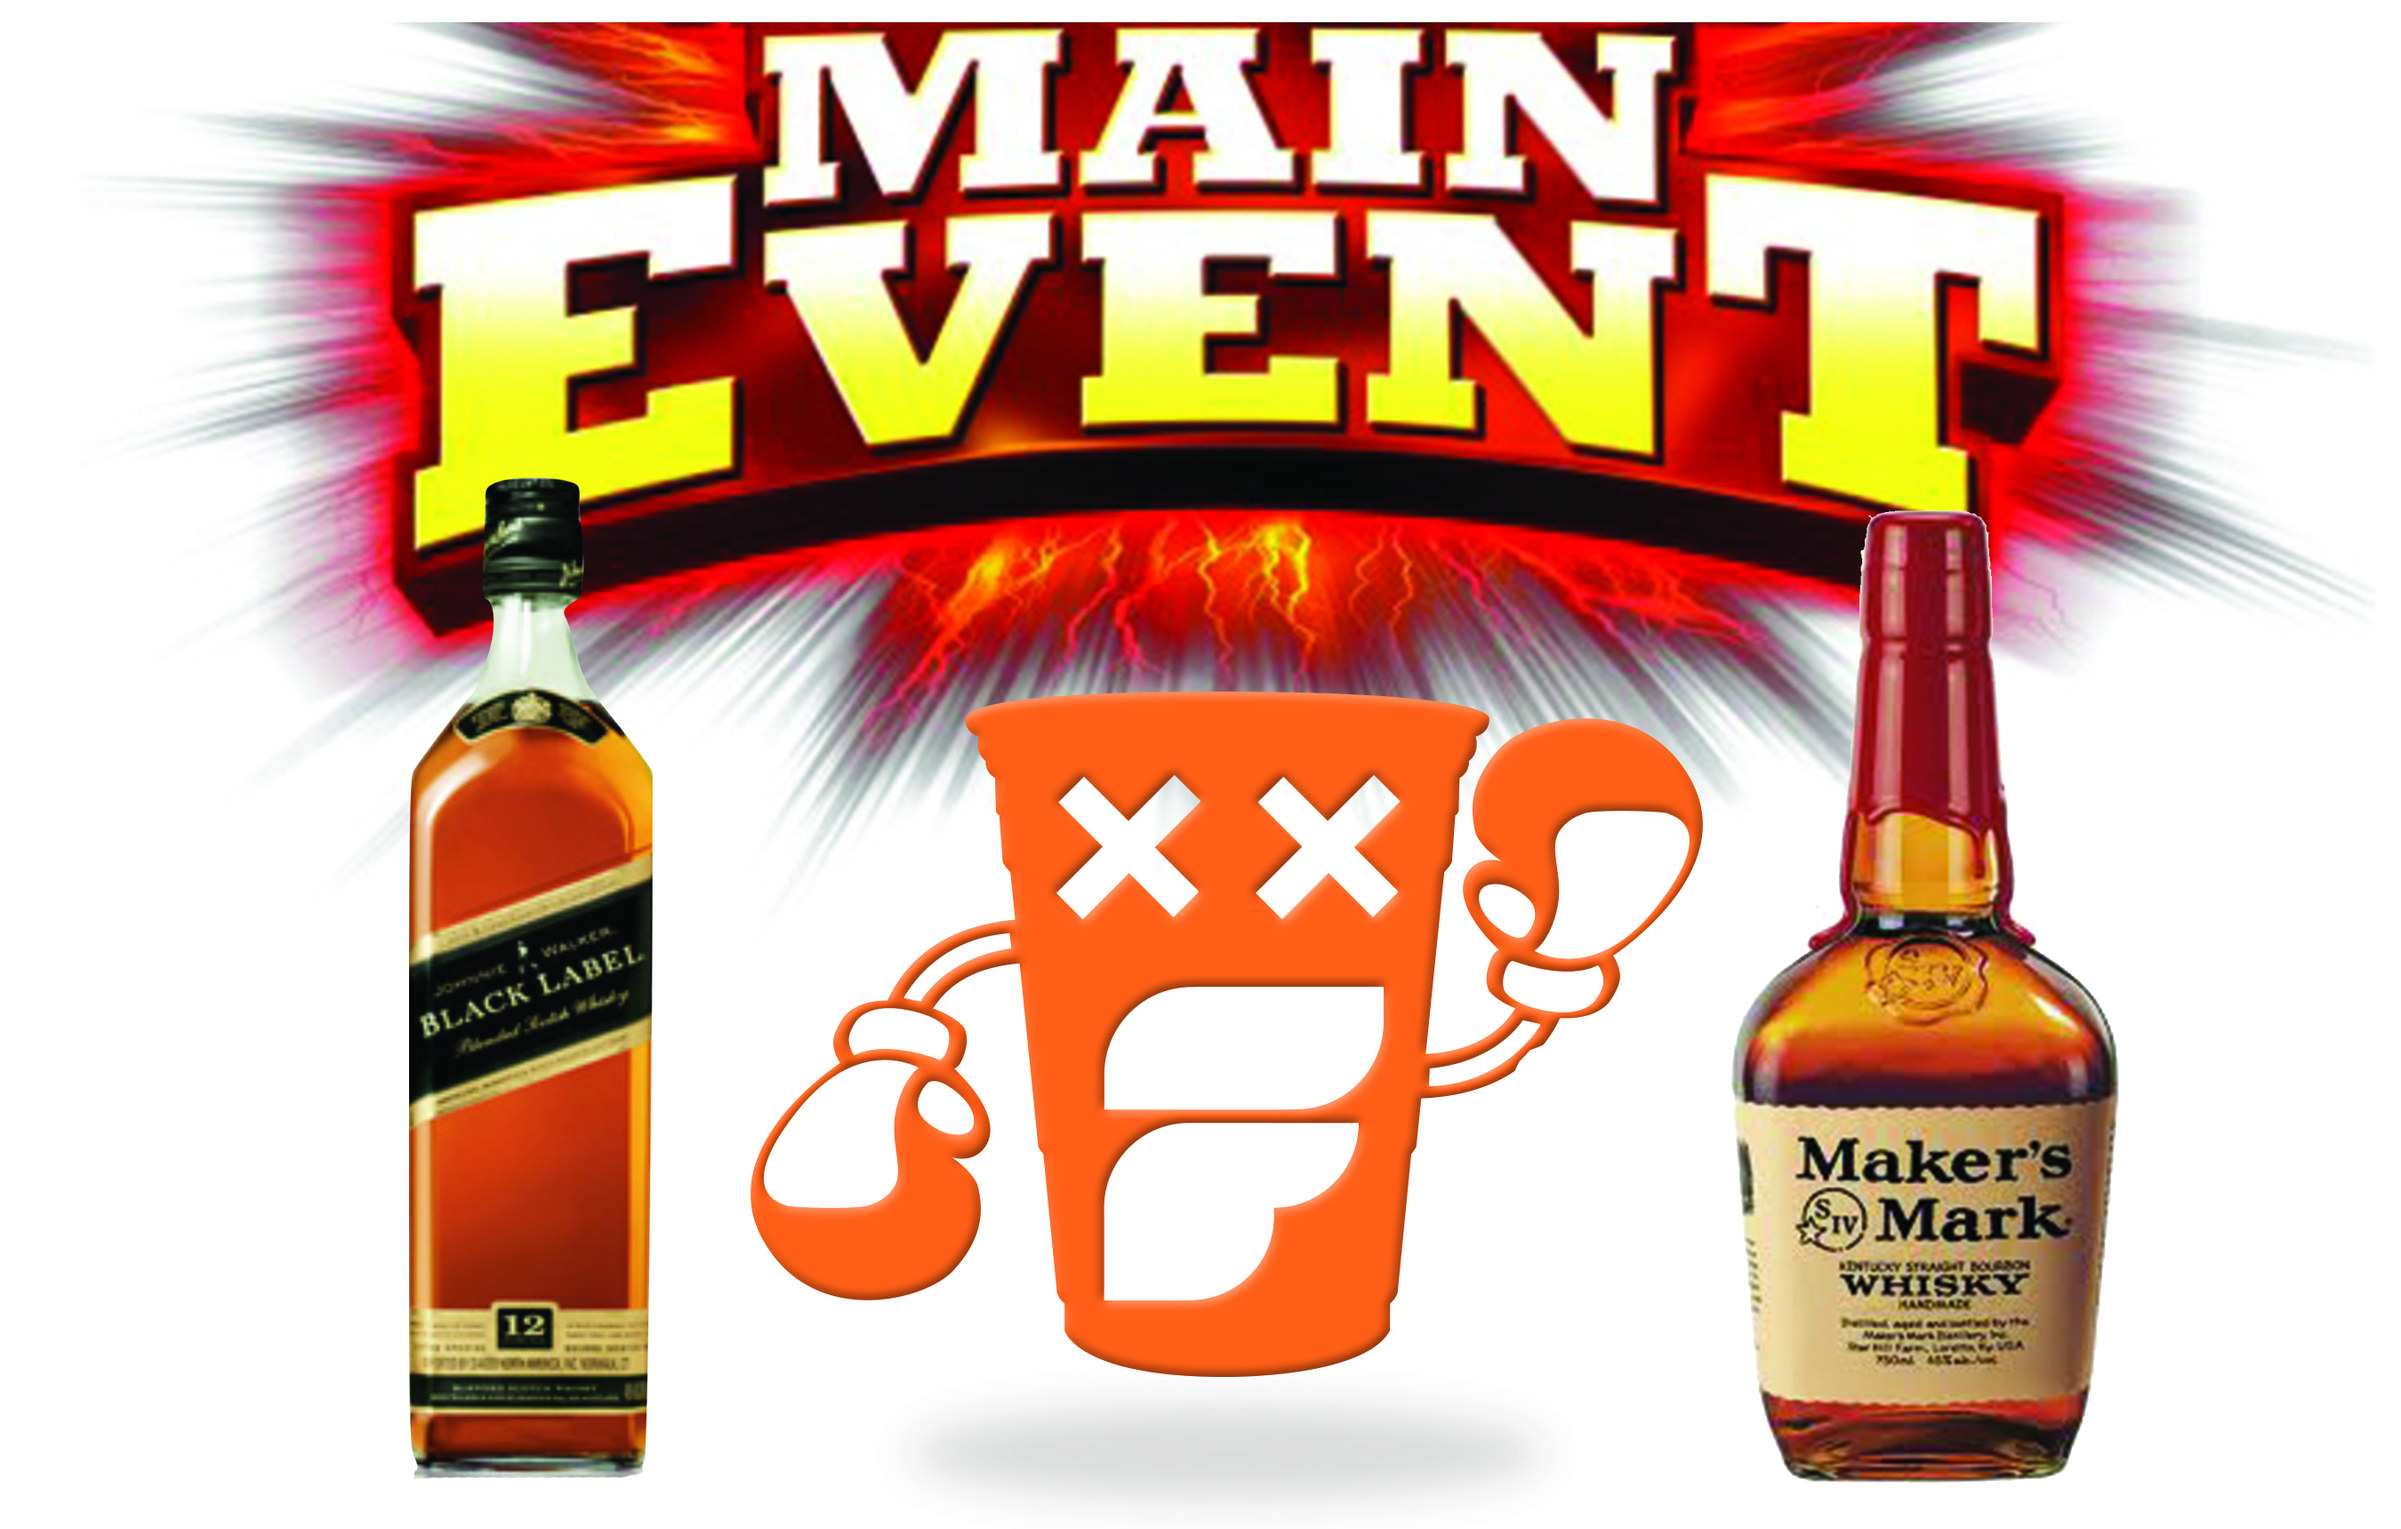
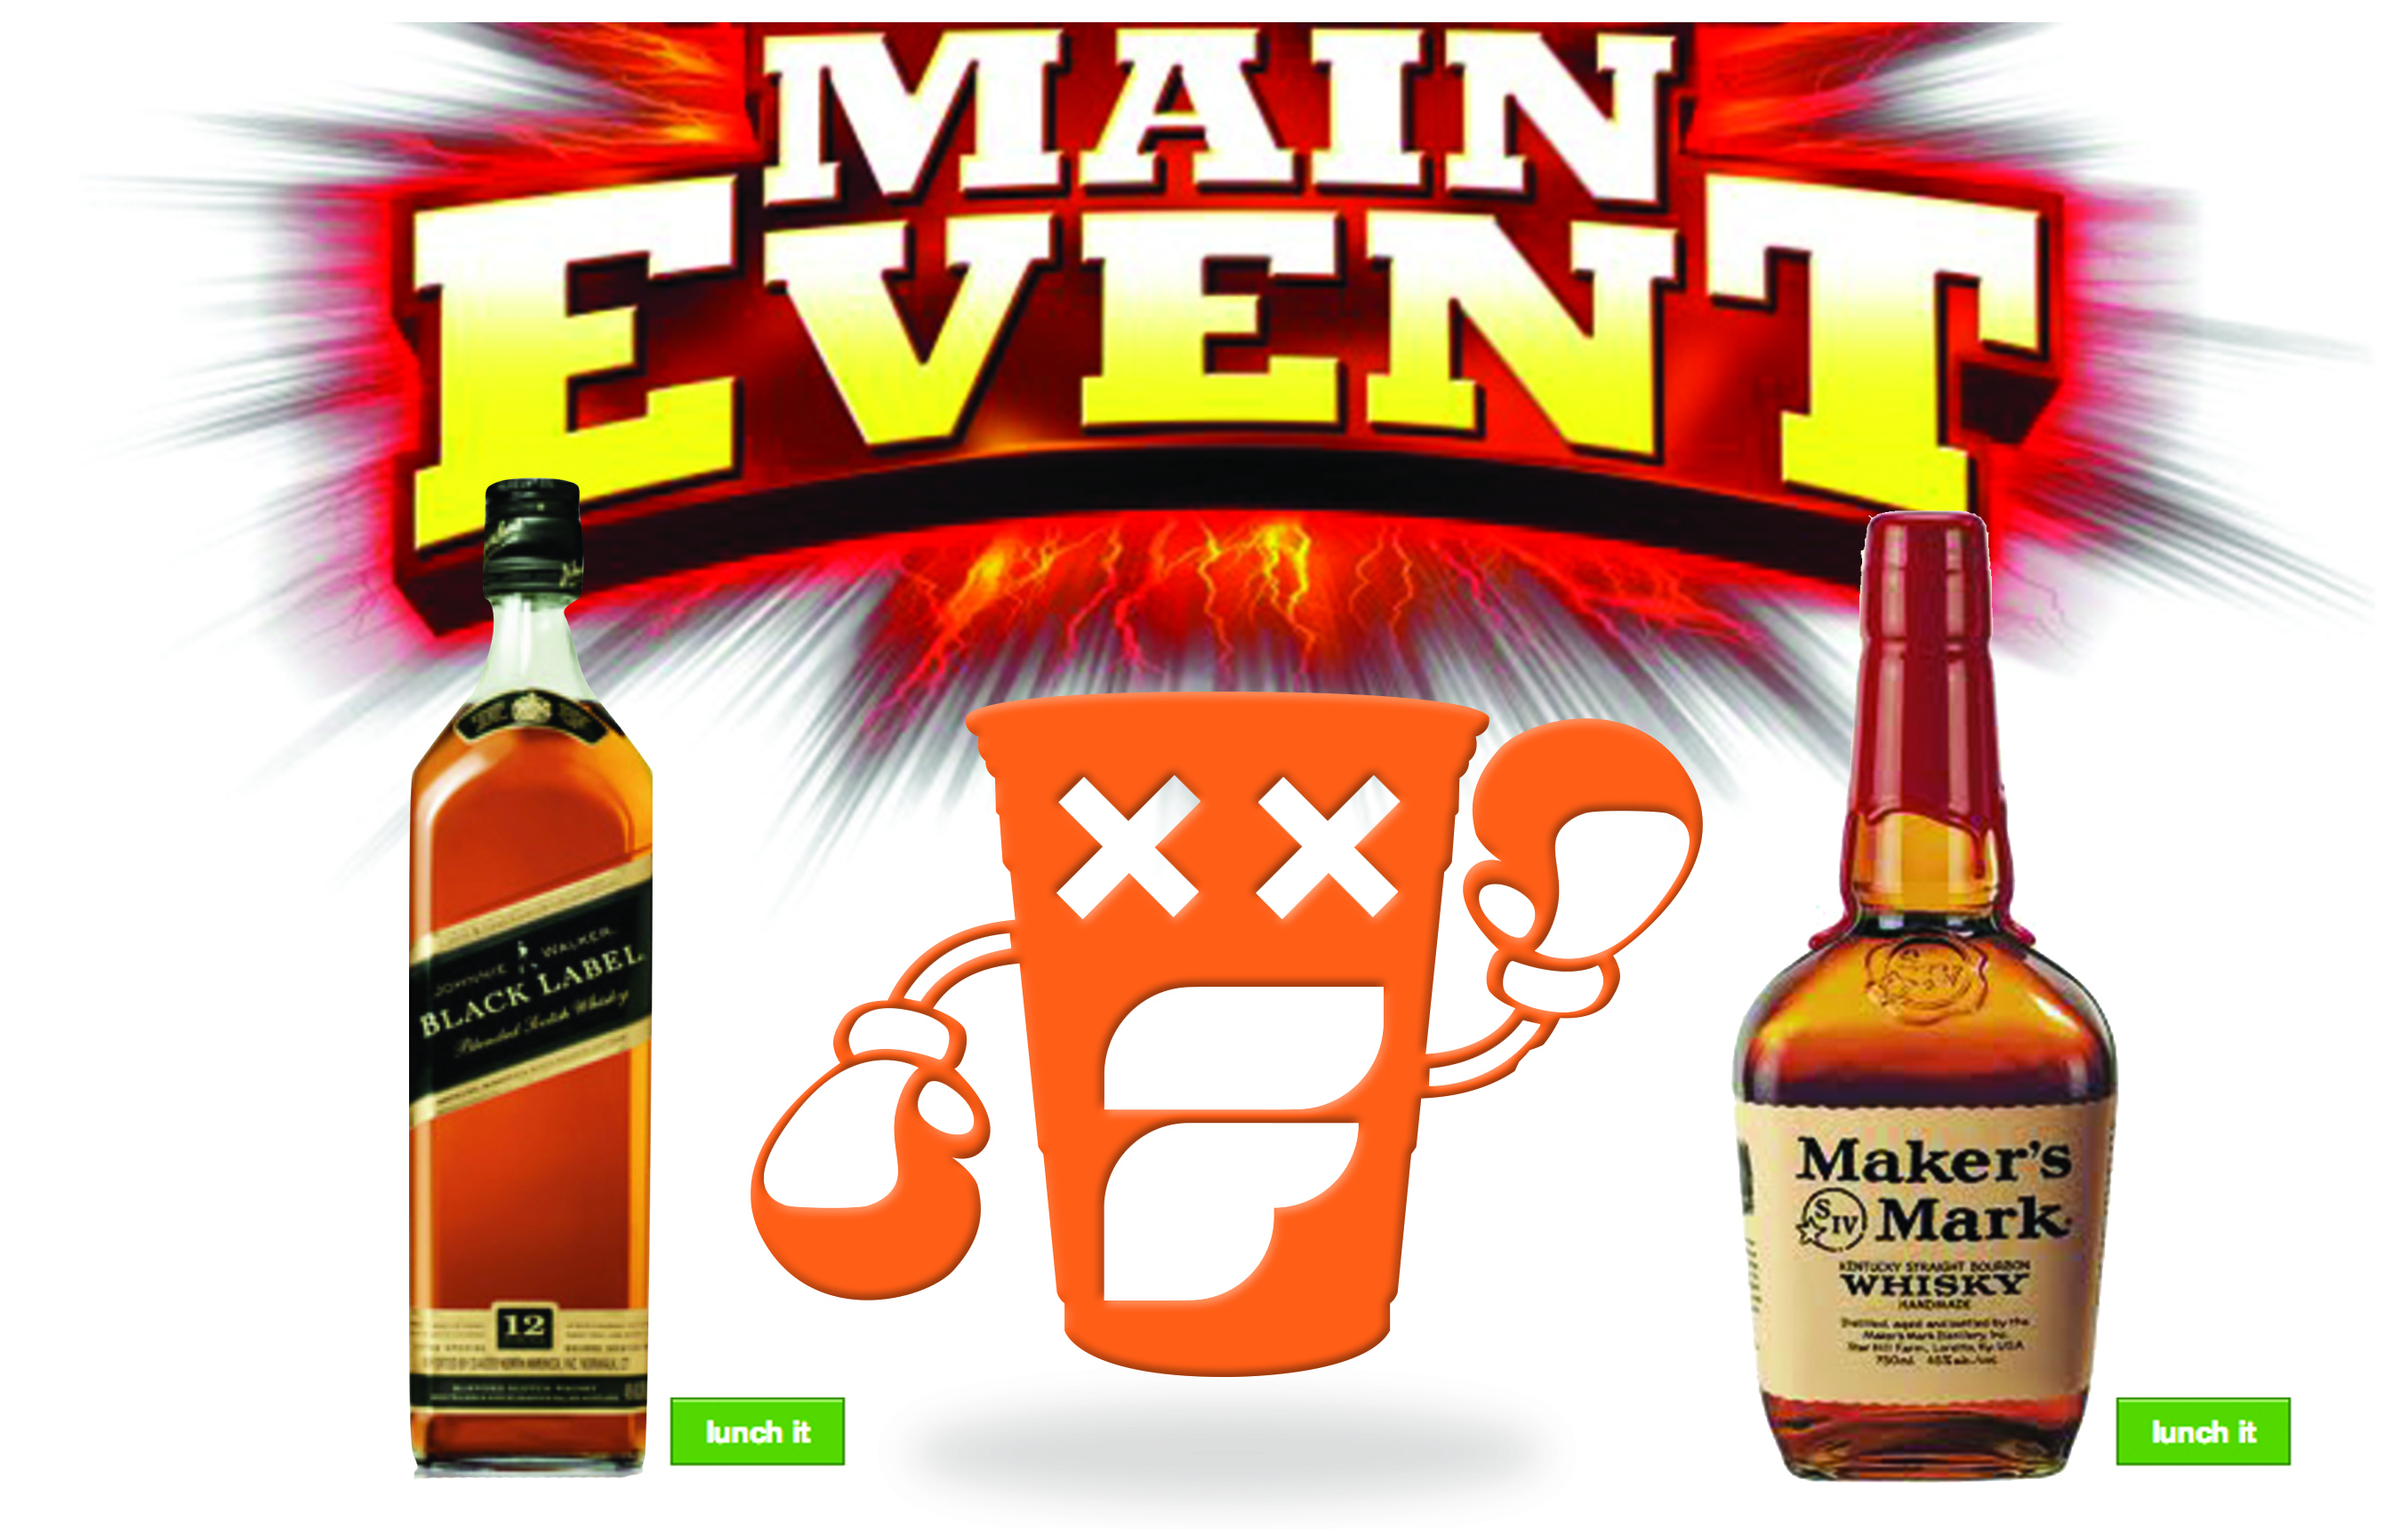
tweaks

Changed region(s): [[0.28, 0.8936, 0.3733, 0.986], [0.8711, 0.8936, 0.9644, 0.986]]

diff --git a/out/pages/home.html b/out/pages/home.html
@@ -35,6 +35,17 @@
   <div id="ff-entrants">
     <div class="ff-entrant">
       <div class="ff-image-container">
+        <img src="/images/mix.jpeg" />
+      </div>
+      <div class="ff-image-relatives">
+        <h6>Variety Mix</h6>
+        <p>I'm sick of gronola for breakfast. Let's get this french fry/wasabi pea/peanut mix in da house.</p>
+        <a class="button small success ff-lunch">lunch it</a>
+        <a data-reveal-id="myModal" class="button small alert ff-launch">launch it</a>
+      </div>
+    </div>
+    <div class="ff-entrant">
+      <div class="ff-image-container">
         <img src="/images/jim-beam.jpg" />
       </div>
       <div class="ff-image-relatives">
@@ -57,11 +68,33 @@
     </div>
     <div class="ff-entrant">
       <div class="ff-image-container">
+        <img src="/images/gummies.jpeg" />
+      </div>
+      <div class="ff-image-relatives">
+        <h6>Gummies</h6>
+        <p></p>
+        <a class="button small success ff-lunch">lunch it</a>
+        <a data-reveal-id="myModal" class="button small alert ff-launch">launch it</a>
+      </div>
+    </div>
+    <div class="ff-entrant">
+      <div class="ff-image-container">
         <img src="/images/cheetos-girl-in-bath.jpg" />
       </div>
       <div class="ff-image-relatives">
         <h6>Cheetos</h6>
         <p>...but just the Cheetos.</p>
+        <a class="button small success ff-lunch">lunch it</a>
+        <a data-reveal-id="myModal" class="button small alert ff-launch">launch it</a>
+      </div>
+    </div>
+    <div class="ff-entrant">
+      <div class="ff-image-container">
+        <img src="/images/fruit.jpeg" />
+      </div>
+      <div class="ff-image-relatives">
+        <h6>Fruit</h6>
+        <p>I mean, we gotta... Right?</p>
         <a class="button small success ff-lunch">lunch it</a>
         <a data-reveal-id="myModal" class="button small alert ff-launch">launch it</a>
       </div>

diff --git a/out/index.php b/out/index.php
@@ -1,1 +1,1 @@
-<?php include_once("pages/home.html"); ?>
+<?php include_once("home.html"); ?>
